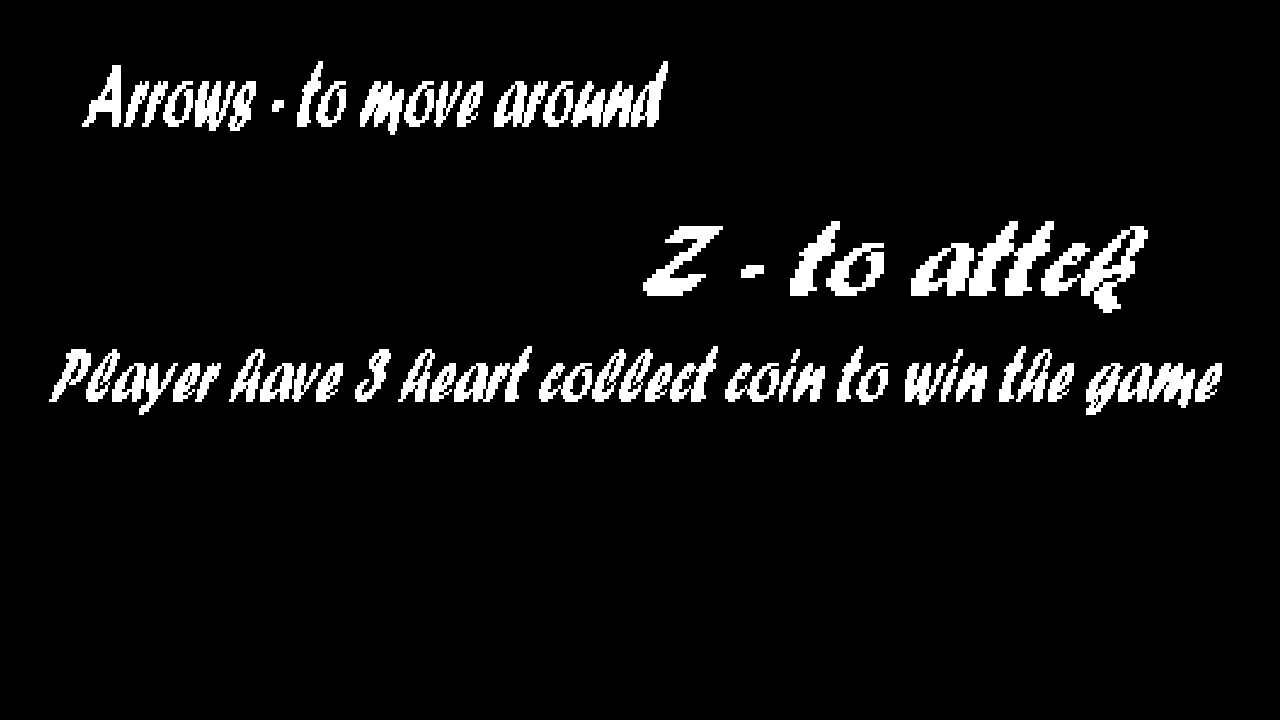
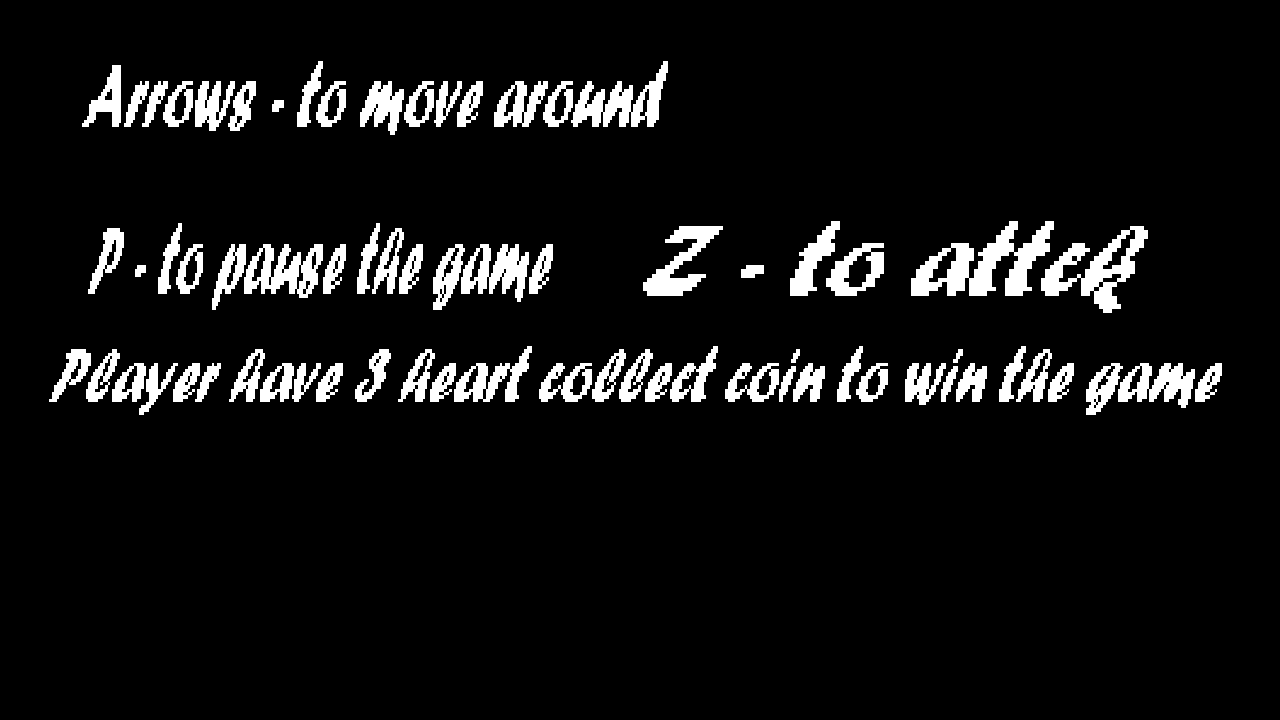
finish

Changed region(s): [[0.0625, 0.3056, 0.4375, 0.4278]]

diff --git a/GameScene.cpp b/GameScene.cpp
@@ -88,7 +88,7 @@ void GameScene::Initialize() {
 	gameOverSprite_->SetSize({ 1280.0f, 720.0f });
 	gameOverSprite_->SetColor({ 1.0f, 1.0f, 1.0f, 1.0f });
 
-	// エンド画面用オーバーレイ（クリア/ゲームオーバー/ステージクリアの色分けに流用）
+	// エンド画面用オーバーレイ（クリア/ゲームオーバー/ステージクリア/ポーズの色分けに流用）
 	endSprite_ = Sprite::Create(blackTextureHandle_, { 0.0f, 0.0f });
 	endSprite_->SetSize({ 1280.0f, 720.0f });
 
@@ -215,8 +215,9 @@ void GameScene::UpdateTransition() {
 void GameScene::Update() {
 	Input* input = Input::GetInstance();
 
-	// ---- ポーズメニュー（フェード中は無効）----
-	if (scene_ == Scene::kGame && !isFading_ && input->TriggerKey(DIK_ESCAPE)) {
+	// ---- ポーズメニュー（フェード中は無効）：ESCまたはPキーでトグル ----
+	if (scene_ == Scene::kGame && !isFading_ &&
+		(input->TriggerKey(DIK_ESCAPE) || input->TriggerKey(DIK_P))) {
 		isPaused_ = !isPaused_;
 	}
 
@@ -308,8 +309,11 @@ void GameScene::UpdateGame() {
 			enemyParticle_->Spawn(pp);
 			enemy->PushBack();
 			if (player_->IsDead()) {
-				// ---- 負け：ゲームをフェードアウトし、黒くなった瞬間にエンド画面へ切り替える ----
+				// ---- 負け：カメラを固定位置に戻してからフェードアウトし、黒くなった瞬間にエンド画面へ切り替える ----
 				won_ = false;
+				isPaused_ = false;
+				camera_.translation_ = { 0.0f, 5.0f, -20.0f };
+				camera_.UpdateMatrix();
 				StartTransition(Scene::kEnd);
 				return; // このフレームはこれ以上ゲーム更新をしない
 			}
@@ -343,8 +347,11 @@ void GameScene::UpdateGame() {
 			stageClearTimer_ = kStageClearDuration_;
 		}
 		else {
-			// ---- 勝ち：ゲームをフェードアウトし、黒くなった瞬間にエンド画面へ切り替える ----
+			// ---- 勝ち：カメラを固定位置に戻してからフェードアウトし、黒くなった瞬間にエンド画面へ切り替える ----
 			won_ = true;
+			isPaused_ = false;
+			camera_.translation_ = { 0.0f, 5.0f, -20.0f };
+			camera_.UpdateMatrix();
 			StartTransition(Scene::kEnd);
 			// Audio::GetInstance()->PlayWave(seClearHandle_);
 			return;
@@ -379,6 +386,7 @@ void GameScene::Reset() {
 	player_->Reset();
 	LoadStage(1);
 	camera_.translation_ = { 0.0f, 5.0f, -20.0f };
+	isPaused_ = false;
 }
 
 void GameScene::Draw() {
@@ -427,6 +435,14 @@ void GameScene::Draw() {
 		coinParticle_->Draw(camera_);
 		enemyParticle_->Draw(camera_);
 		Model::PostDraw();
+
+		// ---- ポーズ中：半透明の暗いオーバーレイを表示 ----
+		if (scene_ == Scene::kGame && isPaused_) {
+			Sprite::PreDraw(dxCommon->GetCommandList());
+			endSprite_->SetColor({ 0.0f, 0.0f, 0.0f, 0.5f });
+			endSprite_->Draw();
+			Sprite::PostDraw();
+		}
 
 		if (scene_ == Scene::kStageClear) {
 			// ---- ステージクリア演出：金色の半透明オーバーレイ ----

diff --git a/GameScene.h b/GameScene.h
@@ -106,7 +106,7 @@ private:
 	Sprite* gameClearSprite_ = nullptr;
 	Sprite* gameOverSprite_ = nullptr;
 
-	// エンド画面用の色付きオーバーレイ（クリア=緑、ゲームオーバー=赤）
+	// エンド画面用の色付きオーバーレイ（クリア=緑、ゲームオーバー=赤）／ポーズ中の暗転オーバーレイにも流用
 	Sprite* endSprite_ = nullptr;
 
 	// ---- 浮遊する3D文字（タイトルの"Press Enter"／リトライ待ちの"Press R"）----

diff --git a/main.cpp b/main.cpp
@@ -4,7 +4,7 @@
 using namespace KamataEngine;
 
 int WINAPI WinMain(HINSTANCE, HINSTANCE, LPSTR, int) {
-	KamataEngine::Initialize(L"スターコレクター");
+	KamataEngine::Initialize(L"コインコレクター");
 
 	DirectXCommon* dxCommon = DirectXCommon::GetInstance();
 
